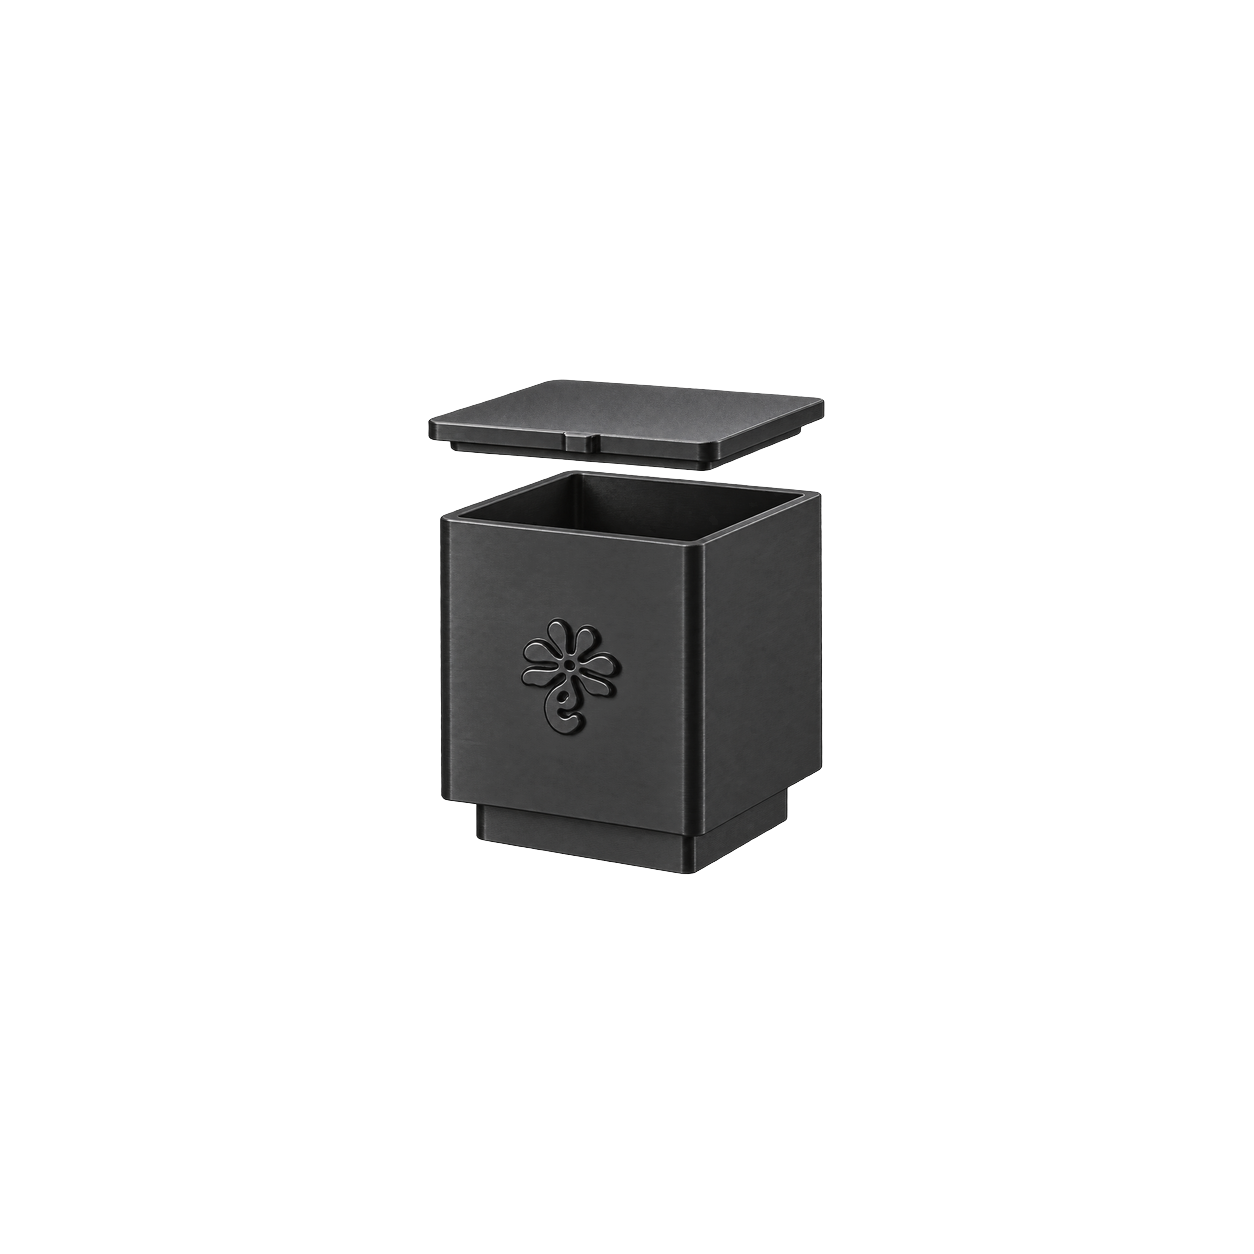
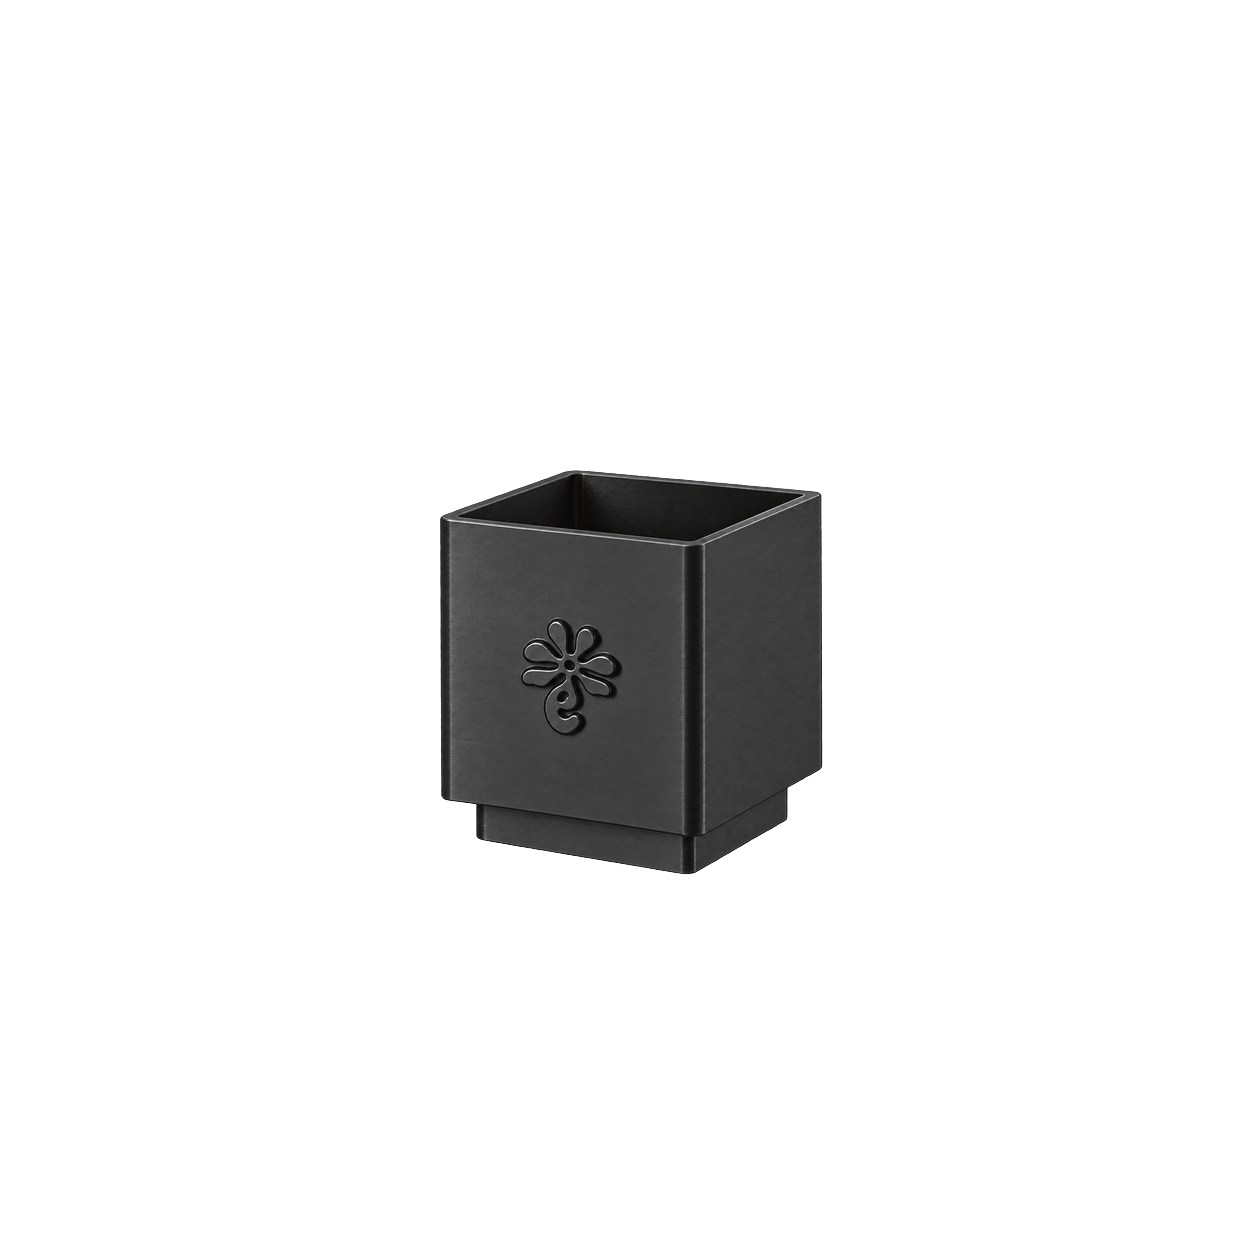
Remove lids from Drain Tower 20 and 40 photos.
Replace the 1254 product rasters with the no-lid files. Cache-bust to ?v=3 so the catalog and PDPs pick up the new frames; 80 and layout are unchanged.

Changed region(s): [[0.3421, 0.2799, 0.6531, 0.3732]]

diff --git a/src/lib/site.ts b/src/lib/site.ts
@@ -450,7 +450,7 @@ export const NEW_PRODUCTS: NewProduct[] = [
     nameKr: "드레인 타워 40, VOID",
     finish: "Black",
     price: DRAIN_TOWER_PRICE_40,
-    emptySrc: "/products/drain-tower-40.png?v=2",
+    emptySrc: "/products/drain-tower-40.png?v=3",
     emptyAlt: "TAEGYE Drain Tower 40, VOID",
   },
   {
@@ -460,7 +460,7 @@ export const NEW_PRODUCTS: NewProduct[] = [
     nameKr: "드레인 타워 20, VOID",
     finish: "Black",
     price: DRAIN_TOWER_PRICE_20,
-    emptySrc: "/products/drain-tower-20.png?v=2",
+    emptySrc: "/products/drain-tower-20.png?v=3",
     emptyAlt: "TAEGYE Drain Tower 20, VOID",
   },
 ];
